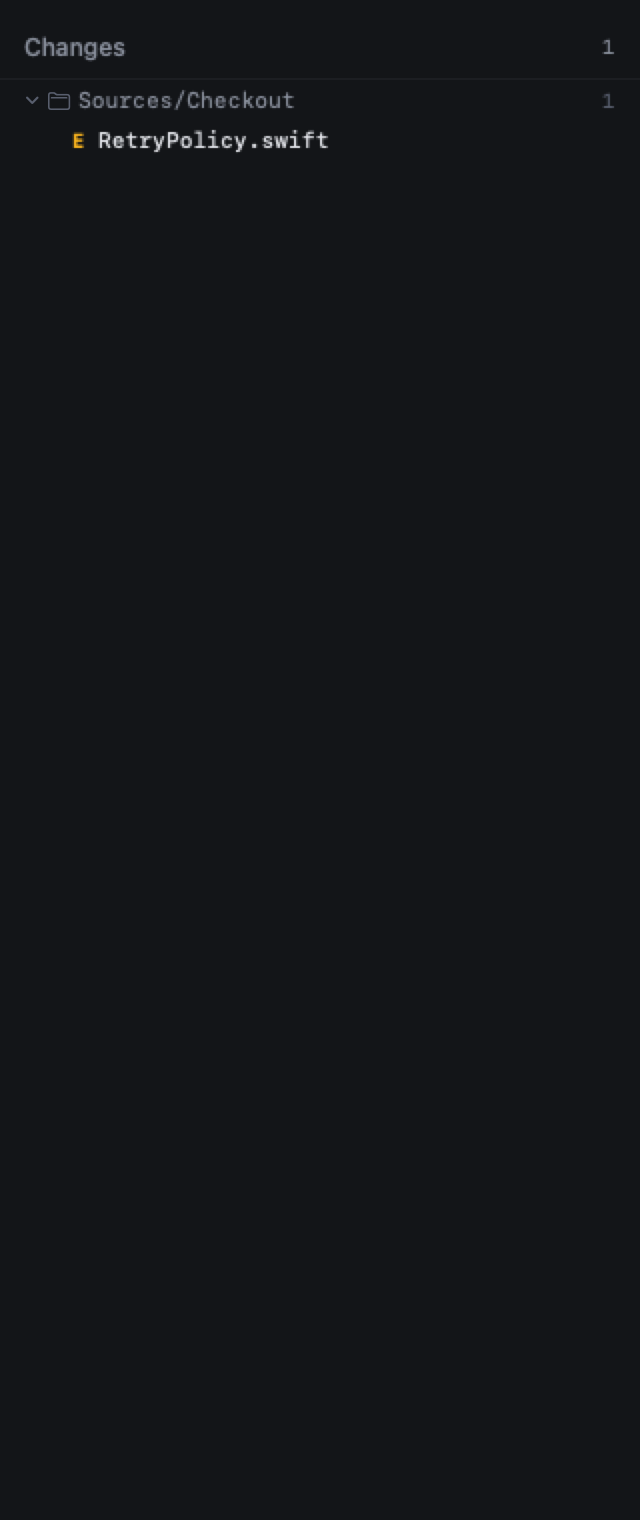
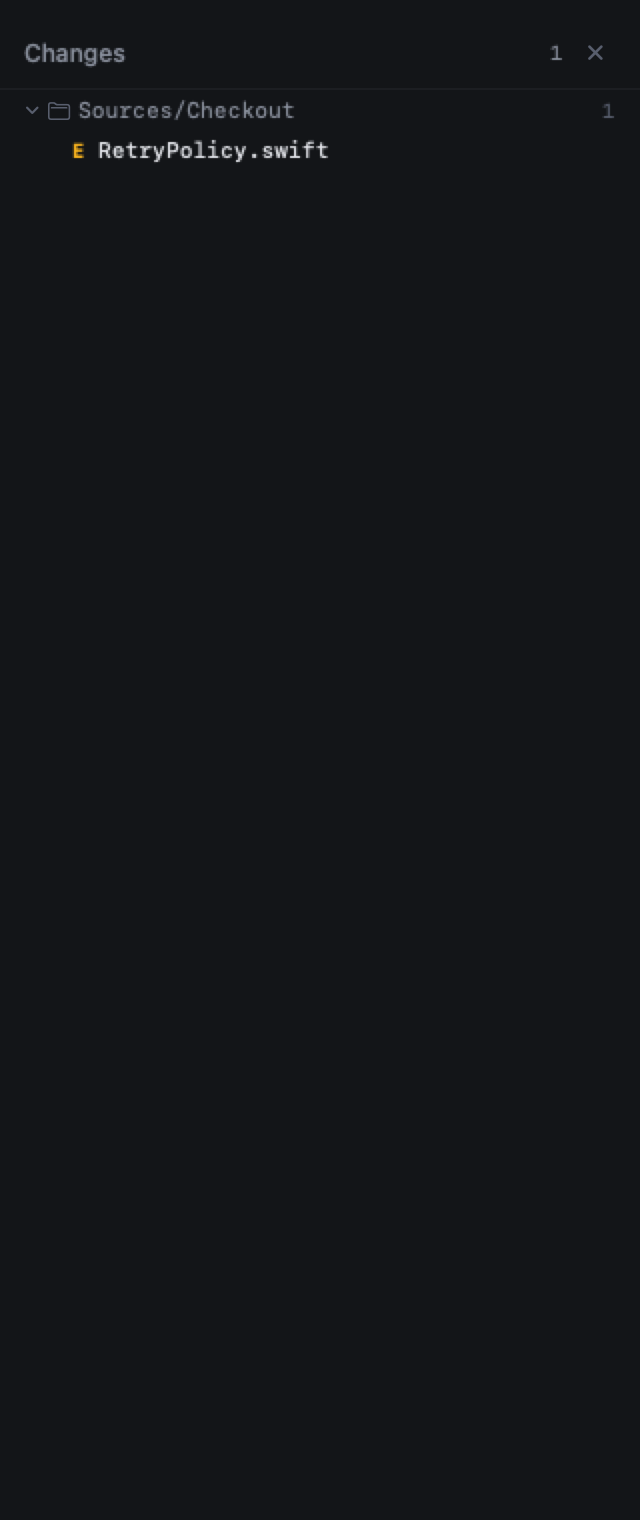
fix: the Changes badge counted a different thing from its panel; a way to close it
Reported with a screenshot: a 13 on the Changes icon over a panel saying "the
agent has not written a file in this conversation". Both true, about different
things — the badge counted every uncommitted file in the repository, the panel
lists what the agent wrote *here* — and the icon is the one you read first. The
header count was fixed for this a few commits ago and the badge was missed, so
the disagreement simply moved.

The badge counts what its panel lists. Git keeps the other number, because
Git's own list *is* the uncommitted files.

And a way out of a panel that does not require knowing the rail icon toggles.
It always has, and ⌘⇧E has too, and neither is visible — so the panel header
gets a close button beside its count.

Also reported: "Commands run" in the review packet is too big. A turn that
reads a codebase runs thirty commands, each a `cd … && for f in …` long enough
to wrap to two lines, each followed by "No intent supplied by the agent" in
warning orange. That is a page of scolding between the person and the merge
decision the screen exists for, and the commands are evidence you consult
rather than the verdict. Folded behind a count, one line each, no scolding —
and open by itself when something failed, because a command that did not work
is not evidence anybody should have to go looking for.

Changed region(s): [[0.0312, 0.0, 0.5, 0.1237], [0.9375, 0.0618, 0.9688, 0.0928]]

diff --git a/app/Sources/KeelApp/ReviewPacket.swift b/app/Sources/KeelApp/ReviewPacket.swift
@@ -36,6 +36,9 @@ struct ReviewPacketView: View {
     @State private var message = ""
     @State private var exported: String?
     @State private var identityOpen = false
+    /// Open when something failed: a command that did not work is evidence you should not have to
+    /// go looking for.
+    @State private var commandsOpen = false
 
     private var packet: ReviewPacket { ReviewPacket(model: model) }
 
@@ -147,23 +150,57 @@ struct ReviewPacketView: View {
     }
 
     @ViewBuilder private var commands: some View {
-        section("Commands run") {
+        // Folded, and one line each.
+        //
+        // A turn that reads a codebase runs thirty commands, each a `cd … && for f in …` long
+        // enough to wrap to two lines, each followed by "No intent supplied by the agent" in
+        // warning orange. That is a page of scolding between the person and the merge decision
+        // this screen exists for — and the commands are evidence you consult, not the verdict.
+        //
+        // Failures open the section by themselves, because a command that failed is not evidence
+        // you have to go looking for.
+        section("Commands run", detail: commandsSummary) {
             if packet.commands.isEmpty {
                 empty("No shell commands recorded")
             } else {
-                ForEach(packet.commands) { call in
-                    HStack(alignment: .top, spacing: K.S.sm) {
-                        Image(systemName: call.failed ? "xmark.circle.fill" : "terminal")
-                            .foregroundStyle(call.failed ? K.C.del : K.C.faint)
-                        VStack(alignment: .leading, spacing: K.S.xxs) {
-                            Text(call.subject).font(K.F.code).foregroundStyle(K.C.text).lineLimit(2)
-                            Text(call.reason ?? "No intent supplied by the agent")
-                                .font(K.F.micro).foregroundStyle(call.reason == nil ? K.C.warn : K.C.faint)
+                DisclosureGroup(isExpanded: $commandsOpen) {
+                    VStack(alignment: .leading, spacing: K.S.xs) {
+                        ForEach(packet.commands) { call in
+                            HStack(alignment: .firstTextBaseline, spacing: K.S.sm) {
+                                Image(systemName: call.failed ? "xmark.circle.fill" : "terminal")
+                                    .font(K.F.tiny)
+                                    .foregroundStyle(call.failed ? K.C.del : K.C.faint)
+                                    .accessibilityHidden(true)
+                                Text(call.subject)
+                                    .font(K.F.codeSmall).foregroundStyle(K.C.text)
+                                    .lineLimit(1).truncationMode(.middle)
+                                    .textSelection(.enabled)
+                                Spacer(minLength: 0)
+                                if let reason = call.reason, !reason.isEmpty {
+                                    Text(reason).font(K.F.tiny).foregroundStyle(K.C.faint)
+                                        .lineLimit(1)
+                                }
+                            }
                         }
                     }
+                    .padding(.top, K.S.xs)
+                } label: {
+                    Text(commandsOpen ? "Hide the list" : "Show all \(packet.commands.count)")
+                        .font(K.F.small).foregroundStyle(K.C.accent)
                 }
+                .disclosureGroupStyle(.automatic)
+                .onAppear { commandsOpen = packet.commands.contains(where: \.failed) }
             }
         }
+    }
+
+    /// What the list says without being opened: how many, and whether any failed.
+    private var commandsSummary: String? {
+        guard !packet.commands.isEmpty else { return nil }
+        let failed = packet.commands.count(where: \.failed)
+        let n = packet.commands.count
+        let ran = "\(n) command\(n == 1 ? "" : "s")"
+        return failed > 0 ? "\(ran), \(failed) failed" : ran
     }
 
     private var gates: some View {

diff --git a/app/Tests/KeelAppTests/UITests.swift b/app/Tests/KeelAppTests/UITests.swift
@@ -556,6 +556,43 @@ extension UITests {
         )
     }
 
+    /// A number on a rail icon is a promise about what is behind it.
+    ///
+    /// Reported with a screenshot: a 13 on the Changes icon over a panel saying "the agent has not
+    /// written a file in this conversation". The badge counted every uncommitted file in the
+    /// repository; the panel lists what the agent wrote *here*. Both true, about different things,
+    /// and the icon is the one you read first.
+    func testTheChangesBadgeCountsWhatItsPanelLists() {
+        let m = SessionModel(client: Client(port: 0))
+        m.loaded = true
+        m.isRepo = true
+        m.repoPath = "/Users/engineer/Projects/payments"
+        // A dirty checkout: thirteen files uncommitted, none of them written in this conversation.
+        m.changes = (0..<13).map {
+            Wire.Change(path: "Sources/Existing\($0).swift", status: " M", label: "modified")
+        }
+
+        XCTAssertTrue(m.editedThisSession.isEmpty, "the fixture is wrong")
+        let shot = shoot(SidePanel(panel: .changes, model: m), CGSize(width: 320, height: 500))
+        XCTAssertGreaterThan(
+            shot.detail(in: CGRect(x: 0, y: 40, width: 320, height: 200)), 200,
+            "the panel drew no empty state"
+        )
+
+        // The badge and the list come from one property now, so they cannot disagree.
+        let m2 = SessionModel(client: Client(port: 0))
+        m2.loaded = true
+        m2.isRepo = true
+        let turn = Turn(prompt: "edit")
+        turn.begin(call: "c0", tool: "Edit", input: ["file_path": .string("Sources/A.swift")])
+        m2.turns = [turn]
+        XCTAssertEqual(m2.editedThisSession.count, 1)
+        XCTAssertEqual(
+            m.editedThisSession.count, 0,
+            "a dirty checkout with no agent edits has to read as nothing written here"
+        )
+    }
+
     private func countFiles(_ nodes: [ChangeTree.Node]) -> Int {
         nodes.reduce(0) { $0 + ($1.isDir ? countFiles($1.children) : 1) }
     }

diff --git a/app/Sources/KeelApp/SessionWindow.swift b/app/Sources/KeelApp/SessionWindow.swift
@@ -142,8 +142,10 @@ struct SessionWindow: View {
                 })
 
                 if showsPanel, let panel {
-                    SidePanel(panel: panel, model: model)
-                        .frame(width: panelFit)
+                    SidePanel(panel: panel, model: model) {
+                        withAnimation(K.M.quick) { self.panel = nil }
+                    }
+                    .frame(width: panelFit)
                     SplitHandle(width: $panelWidth, range: 200...520, reset: 256, leading: true)
                 }
 
@@ -616,8 +618,13 @@ struct ActivityRail: View {
 
     private func badge(_ p: SessionWindow.Panel) -> Int? {
         switch p {
-        case .changes: model.changes.count.nonZero
-        // The same number on Git: it is the count of what a commit there would take.
+        // What the panel behind it actually lists. It counted every uncommitted file in the
+        // repository, so a fresh conversation in a dirty checkout wore a 13 over an empty panel
+        // saying "the agent has not written a file in this conversation" — both true, about
+        // different things.
+        case .changes: model.editedThisSession.count.nonZero
+        // Git keeps the other number, because Git's own list *is* the uncommitted files: it is
+        // the count of what a commit there would take.
         case .git: model.changes.count.nonZero
         // Every finding, not only the blocking ones: a warning in the panel with no number on
         // the icon read as a panel that had nothing to say.

diff --git a/app/Sources/KeelApp/Theme.swift b/app/Sources/KeelApp/Theme.swift
@@ -201,22 +201,30 @@ enum K {
 struct RailHeader: View {
     let title: String
     var trailing: String?
+    /// Only the panel's own header has one: a way out that does not require knowing the rail icon
+    /// toggles. ⌘⇧E does it too, and a shortcut is not an affordance.
+    var onClose: (() -> Void)?
 
-    init(_ title: String, trailing: String? = nil) {
+    init(_ title: String, trailing: String? = nil, onClose: (() -> Void)? = nil) {
         self.title = title
         self.trailing = trailing
+        self.onClose = onClose
     }
 
     var body: some View {
         HStack(spacing: K.S.xs) {
             Text(title)
                 .font(K.F.small.weight(.medium))
+                .foregroundStyle(K.C.dim)
             Spacer()
             if let trailing {
-                Text(trailing).font(K.F.mono(10)).monospacedDigit()
+                Text(trailing).font(K.F.mono(10)).monospacedDigit().foregroundStyle(K.C.dim)
+            }
+            if let onClose {
+                CloseButton(label: "Close the \(title) panel (⌘⇧E)", action: onClose)
+                    .padding(.leading, K.S.xxs)
             }
         }
-        .foregroundStyle(K.C.dim)
         .padding(.horizontal, K.S.md)
         .padding(.top, K.S.lg)
         .padding(.bottom, K.S.sm)

diff --git a/app/Tests/KeelAppTests/VisualCatalogTests.swift b/app/Tests/KeelAppTests/VisualCatalogTests.swift
@@ -131,7 +131,7 @@ final class VisualCatalogTests: XCTestCase {
         try capture(ChatRail(model: model), named: "conversation", in: directory)
         try capture(TurnStage(model: model), named: "trace", in: directory)
         for panel in SessionWindow.Panel.allCases {
-            try capture(SidePanel(panel: panel, model: model), named: "panel-\(panel.rawValue)",
+            try capture(SidePanel(panel: panel, model: model) {}, named: "panel-\(panel.rawValue)",
                         in: directory, size: CGSize(width: 320, height: 760))
         }
 

diff --git a/app/Sources/KeelApp/SidePanel.swift b/app/Sources/KeelApp/SidePanel.swift
@@ -4,10 +4,12 @@ import SwiftUI
 struct SidePanel: View {
     let panel: SessionWindow.Panel
     @Bindable var model: SessionModel
+    /// Closing the panel. The rail icon toggles it and ⌘⇧E toggles it, and neither is visible.
+    var onClose: (() -> Void)?
 
     var body: some View {
         VStack(spacing: 0) {
-            RailHeader(panel.title, trailing: count)
+            RailHeader(panel.title, trailing: count, onClose: onClose)
             Hairline()
             ScrollView {
                 LazyVStack(alignment: .leading, spacing: 0) {
